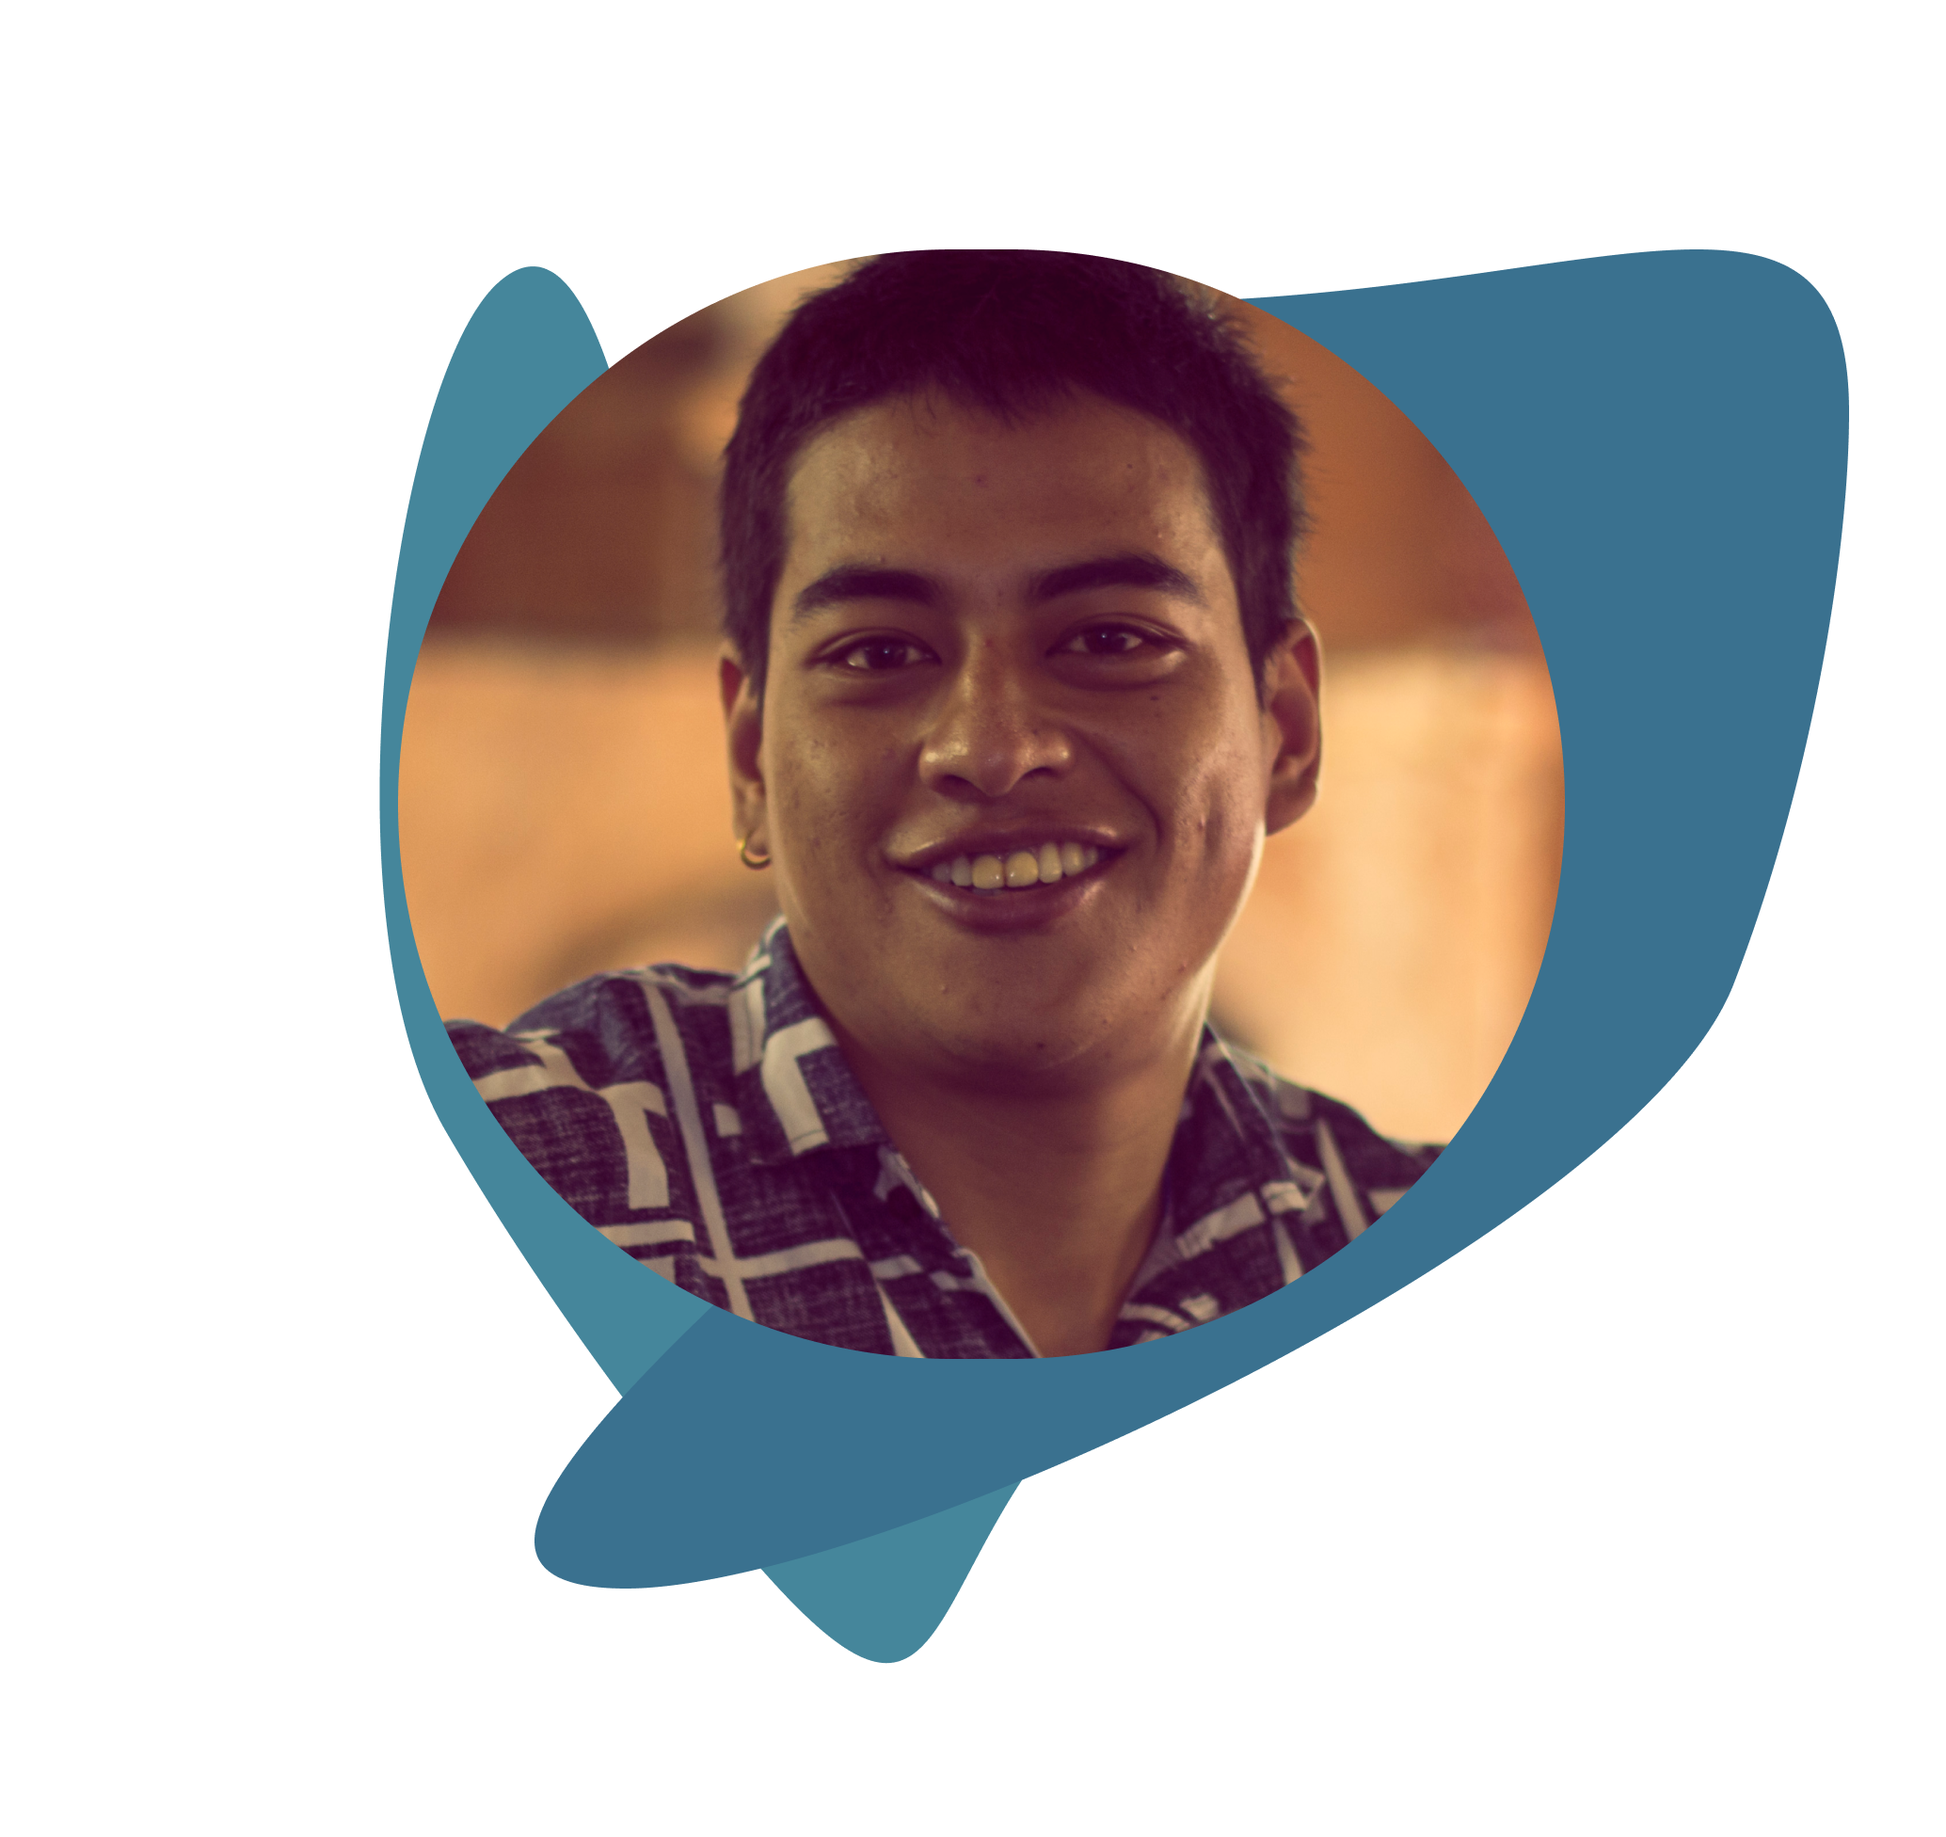
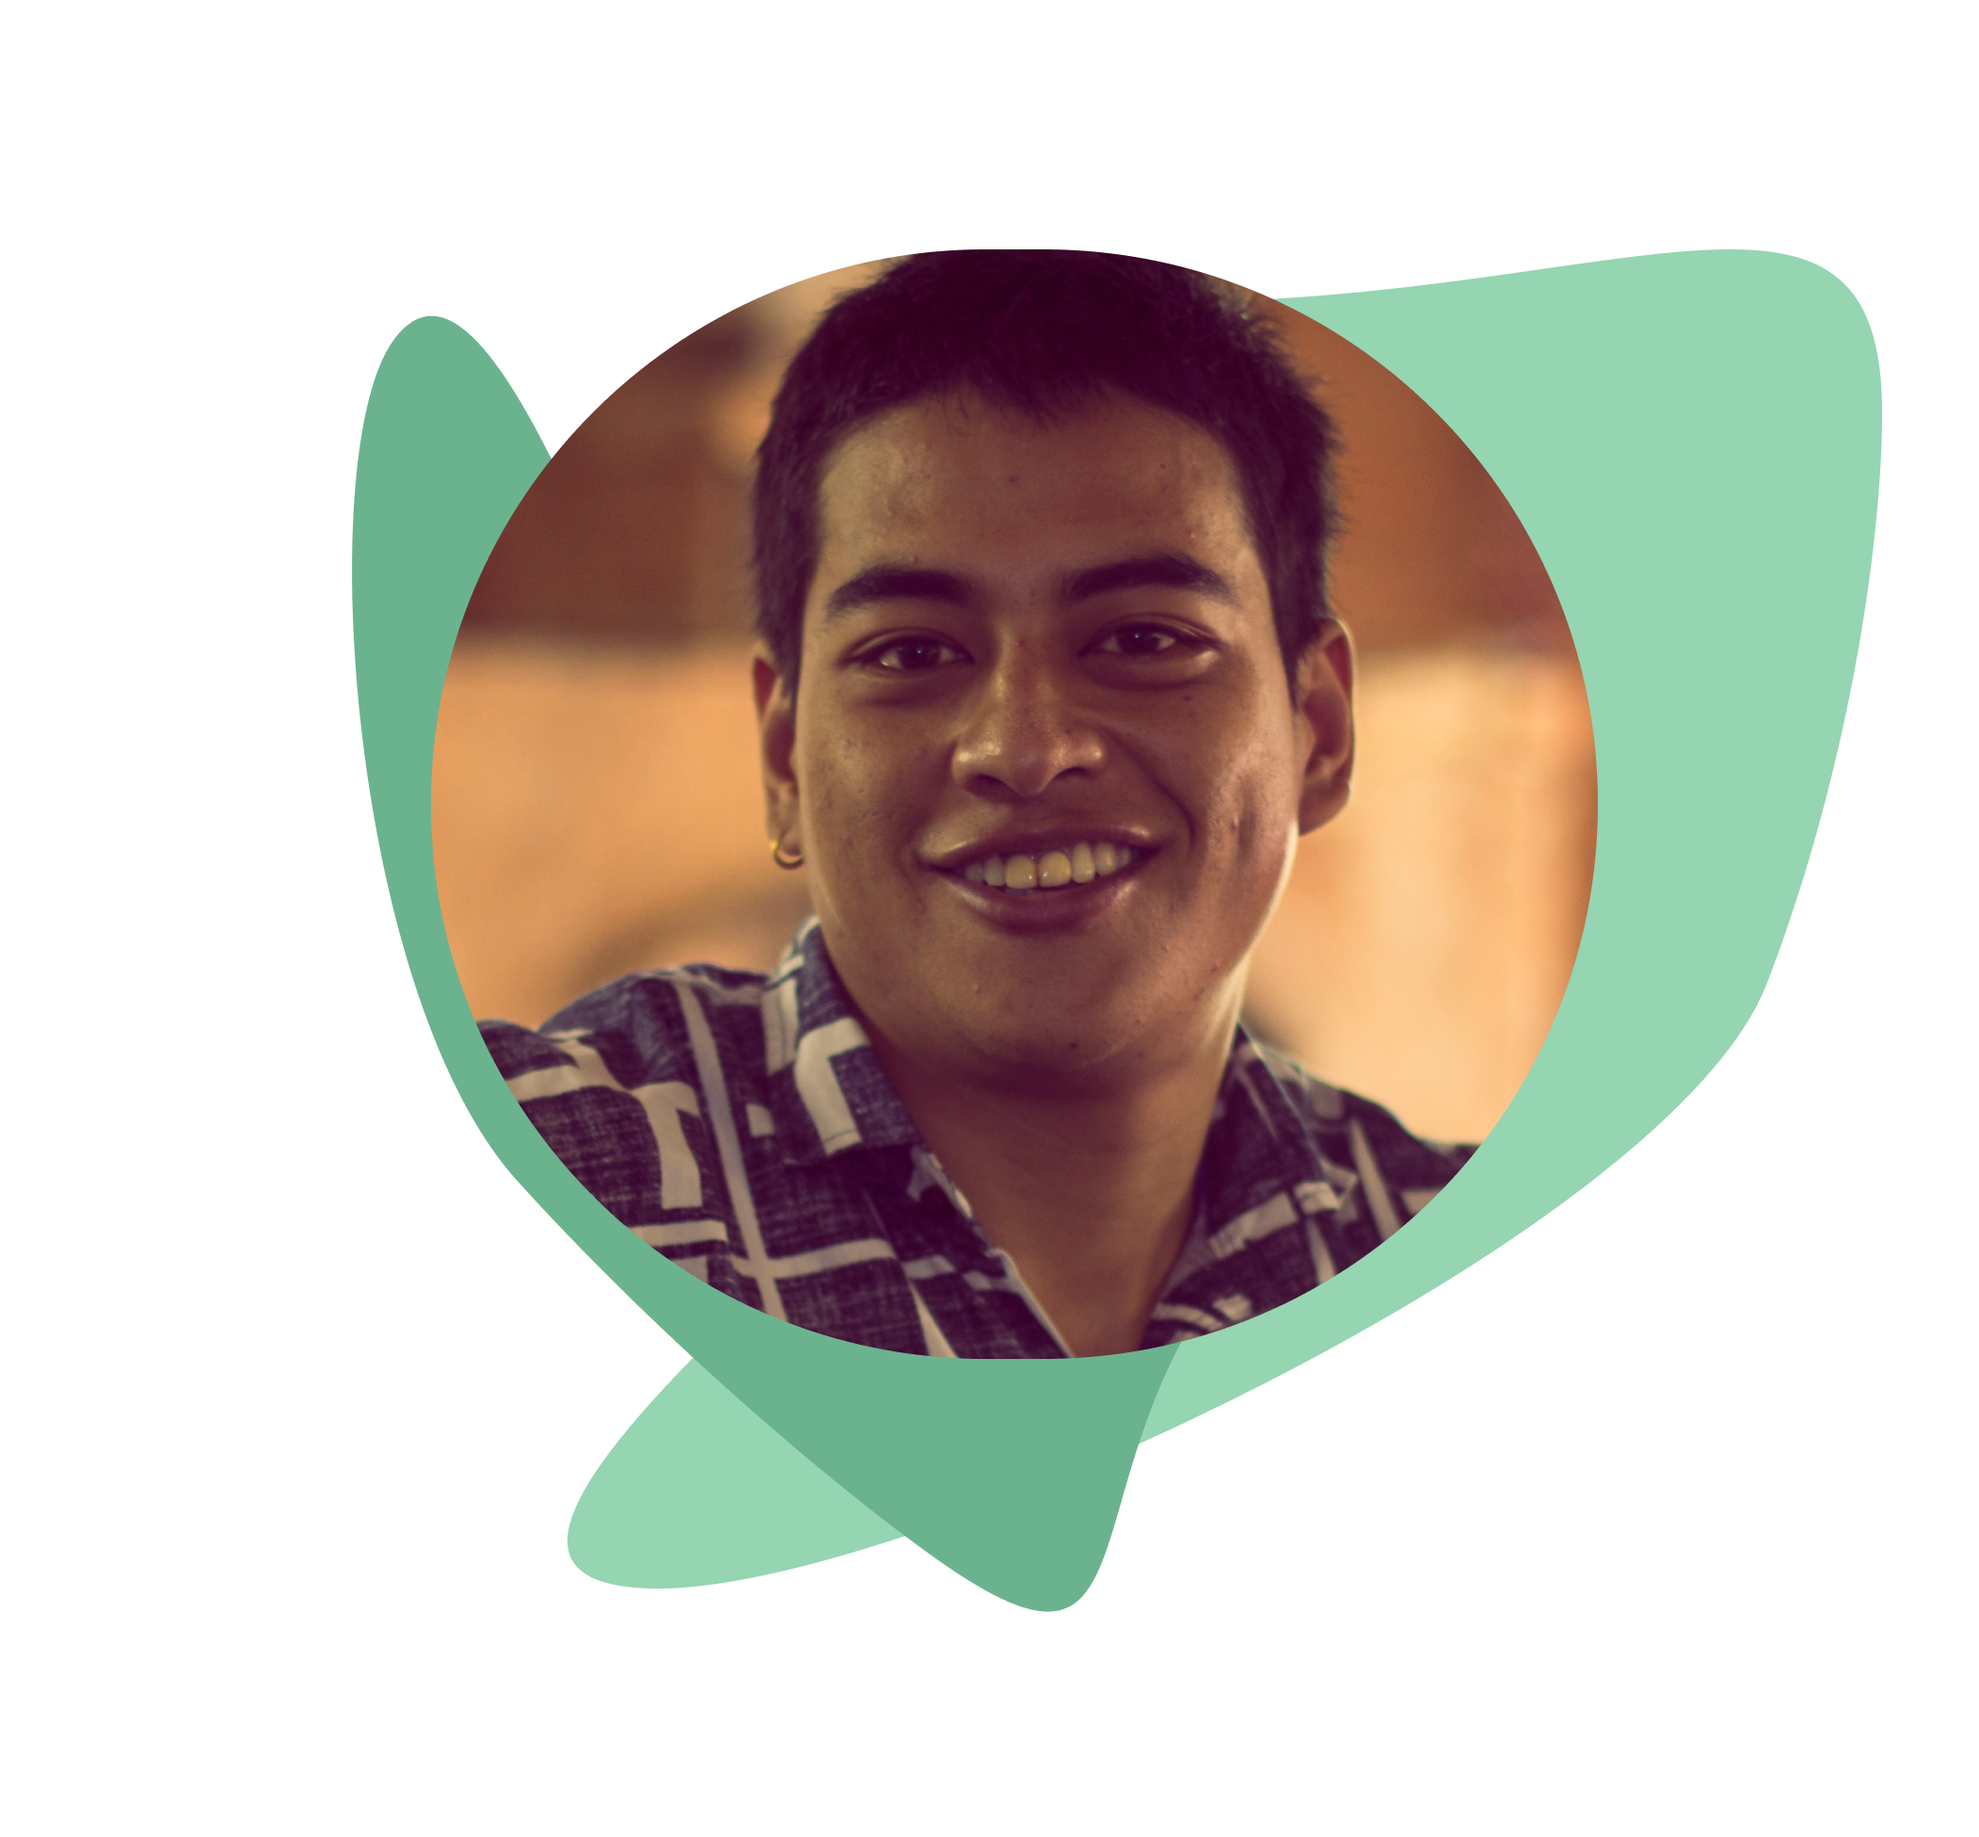
Change Theme Color

Changed region(s): [[0.1547, 0.125, 0.9594, 0.9062]]

diff --git a/src/css/main.css b/src/css/main.css
@@ -14,17 +14,17 @@ Variables
 :root {
   /* dark shades of primary color*/
   /* --clr-primary-1: hsl(43, 86%, 17%); */
-  --clr-primary-1: hsl(184, 91%, 17%);
-  --clr-primary-2: hsl(185, 84%, 25%);
+  --clr-primary-1: hsl(154, 41%, 24%);
+  --clr-primary-2: hsl(153, 32%, 36%);
   /* --clr-primary-3: hsl(185, 81%, 29%);
   --clr-primary-4: hsl(184, 77%, 34%); */
-  --clr-primary-5: #2caeba;
+  --clr-primary-5: #6BB38F;
   /* lighter shades of primary color */
   /* --clr-primary-6: hsl(185, 57%, 50%);
   --clr-primary-7: hsl(184, 65%, 59%); */
-  --clr-primary-8: hsl(184, 80%, 74%);
-  --clr-primary-9: hsl(185, 94%, 87%);
-  --clr-primary-10: hsl(186, 100%, 94%);
+  --clr-primary-8: hsl(147, 43%, 71%);
+  --clr-primary-9: hsl(143, 45%, 78%);
+  --clr-primary-10: hsl(144, 45%, 84%);
   /* darkest grey - used for headings */
   --clr-grey-1: hsl(209, 61%, 16%);
   --clr-grey-3: hsl(209, 34%, 30%);
